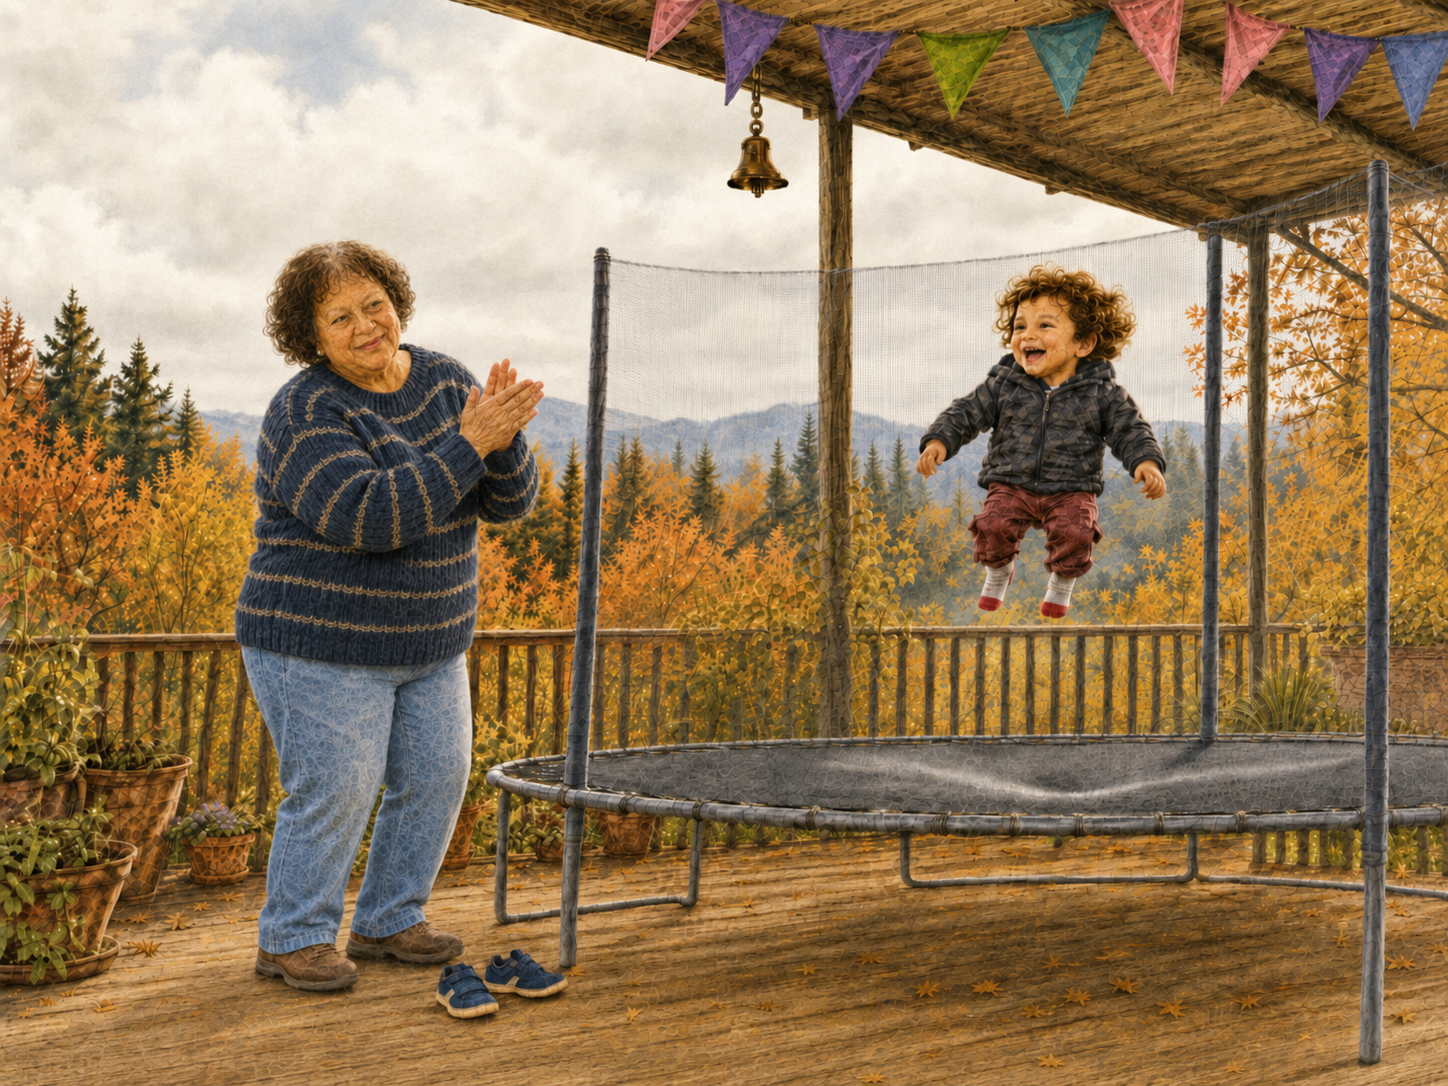
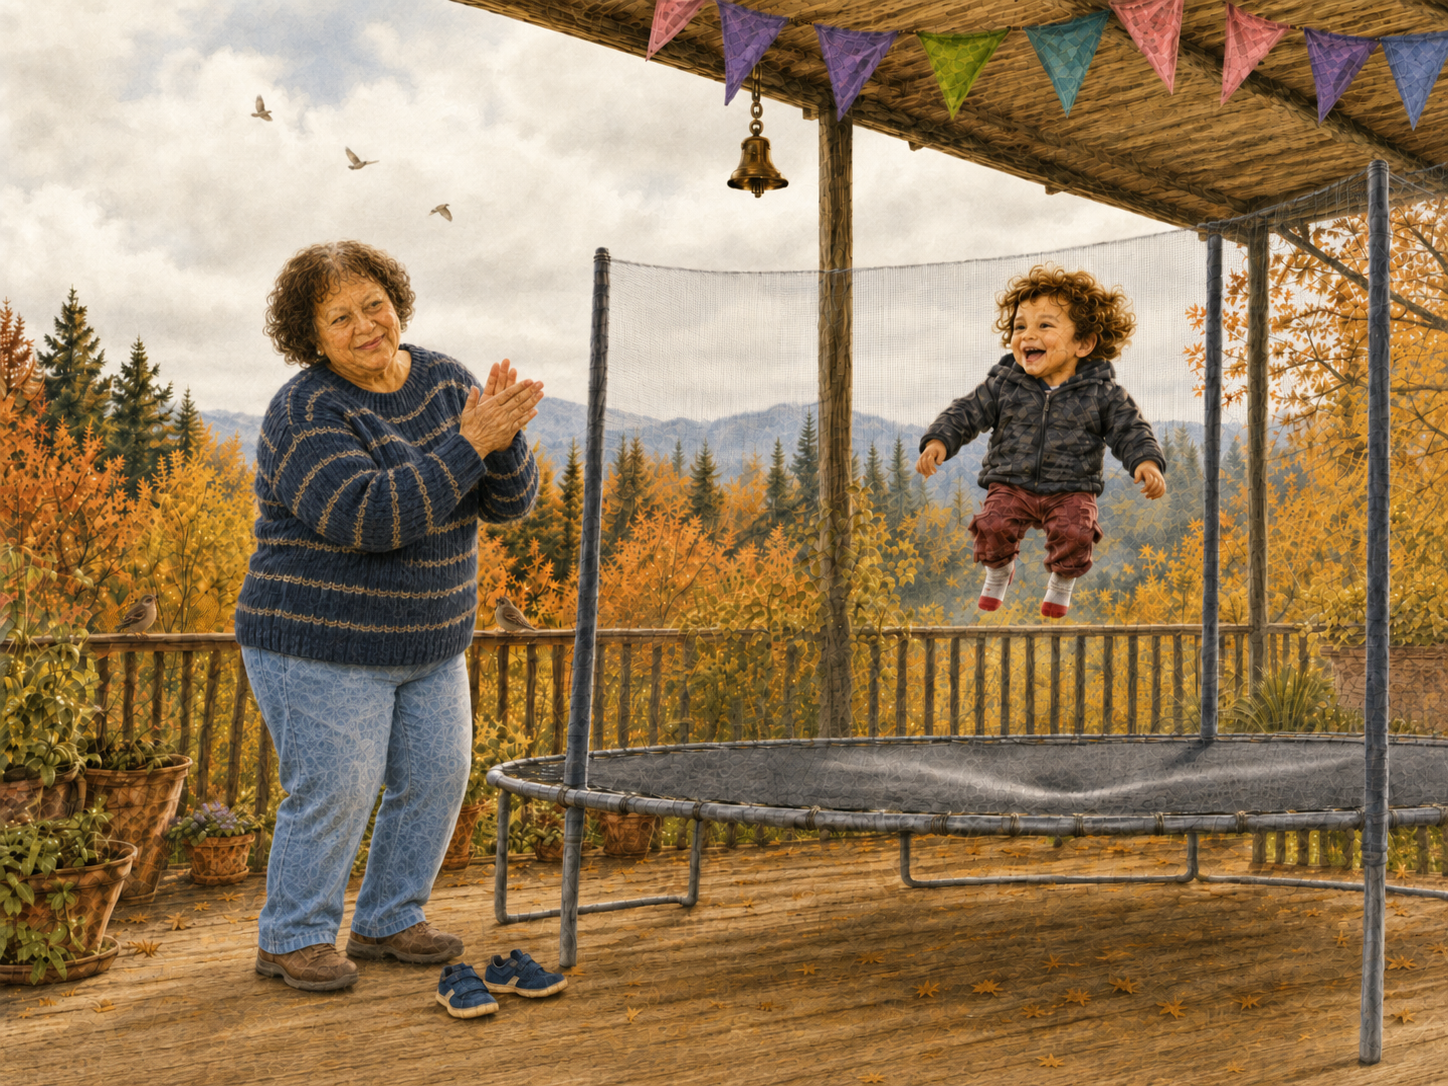
El Recodo: gorriones en las tres terrazas
Bienvenida, trampolin y atardecer quedan unificados por los gorriones:
posados en la baranda y volando en el aire.

- 15_bienvenida_terraza: dos en el pasamanos, tres en el cielo nublado
- 23_trampolin: dos en la baranda, tres cruzando el cielo
- 18_terraza_atardecer: cuatro en fila despareja, tres en el cielo naranja

El atardecer no es a contraluz: la terraza mira al este y el sol se pone
a la espalda de la camara, asi que los gorriones van iluminados de frente.

diff --git a/kuchulu/index.html b/kuchulu/index.html
@@ -308,7 +308,7 @@
 <div class="page spread">
   <div class="spread-inner">
     <div class="spread-img-wrap">
-      <img class="spread-img" src="ilustraciones/15_bienvenida_terraza.png" alt="Masbaba y Mastana reciben a Kuchulu en la terraza, lo abrazan; al lado de Mastana una lagartija mira la bienvenida" loading="eager">
+      <img class="spread-img" src="ilustraciones/15_bienvenida_terraza.png" alt="Masbaba y Mastana reciben a Kuchulu en la terraza, lo abrazan; al lado de Mastana una lagartija mira la bienvenida, dos gorriones esperan en la baranda y otros tres cruzan el cielo" loading="eager">
     </div>
     <div class="spread-text-box">
       <div class="spread-text">
@@ -505,7 +505,7 @@
 <div class="page spread">
   <div class="spread-inner">
     <div class="spread-img-wrap">
-      <img class="spread-img" src="ilustraciones/23_trampolin.png" alt="Kuchulú salta en el trampolín de la terraza; Mastana lo mira desde abajo y aplaude" loading="eager">
+      <img class="spread-img" src="ilustraciones/23_trampolin.png" alt="Kuchulú salta en el trampolín de la terraza; Mastana lo mira desde abajo y aplaude, dos gorriones miran desde la baranda y tres pasan volando" loading="eager">
     </div>
     <div class="spread-text-box">
       <div class="spread-text">
@@ -524,7 +524,7 @@
 <div class="page spread">
   <div class="spread-inner">
     <div class="spread-img-wrap">
-      <img class="spread-img" src="ilustraciones/18_terraza_atardecer.png" alt="Atardecer en la terraza, con la luna y las lucecitas; Masbaba, Mastana y Kuchulu" loading="eager">
+      <img class="spread-img" src="ilustraciones/18_terraza_atardecer.png" alt="Atardecer en la terraza, con la luna y las lucecitas; Masbaba, Mastana y Kuchulu, y una hilera de gorriones en la baranda mientras otros vuelven volando" loading="eager">
     </div>
     <div class="spread-text-box">
       <div class="spread-text">
